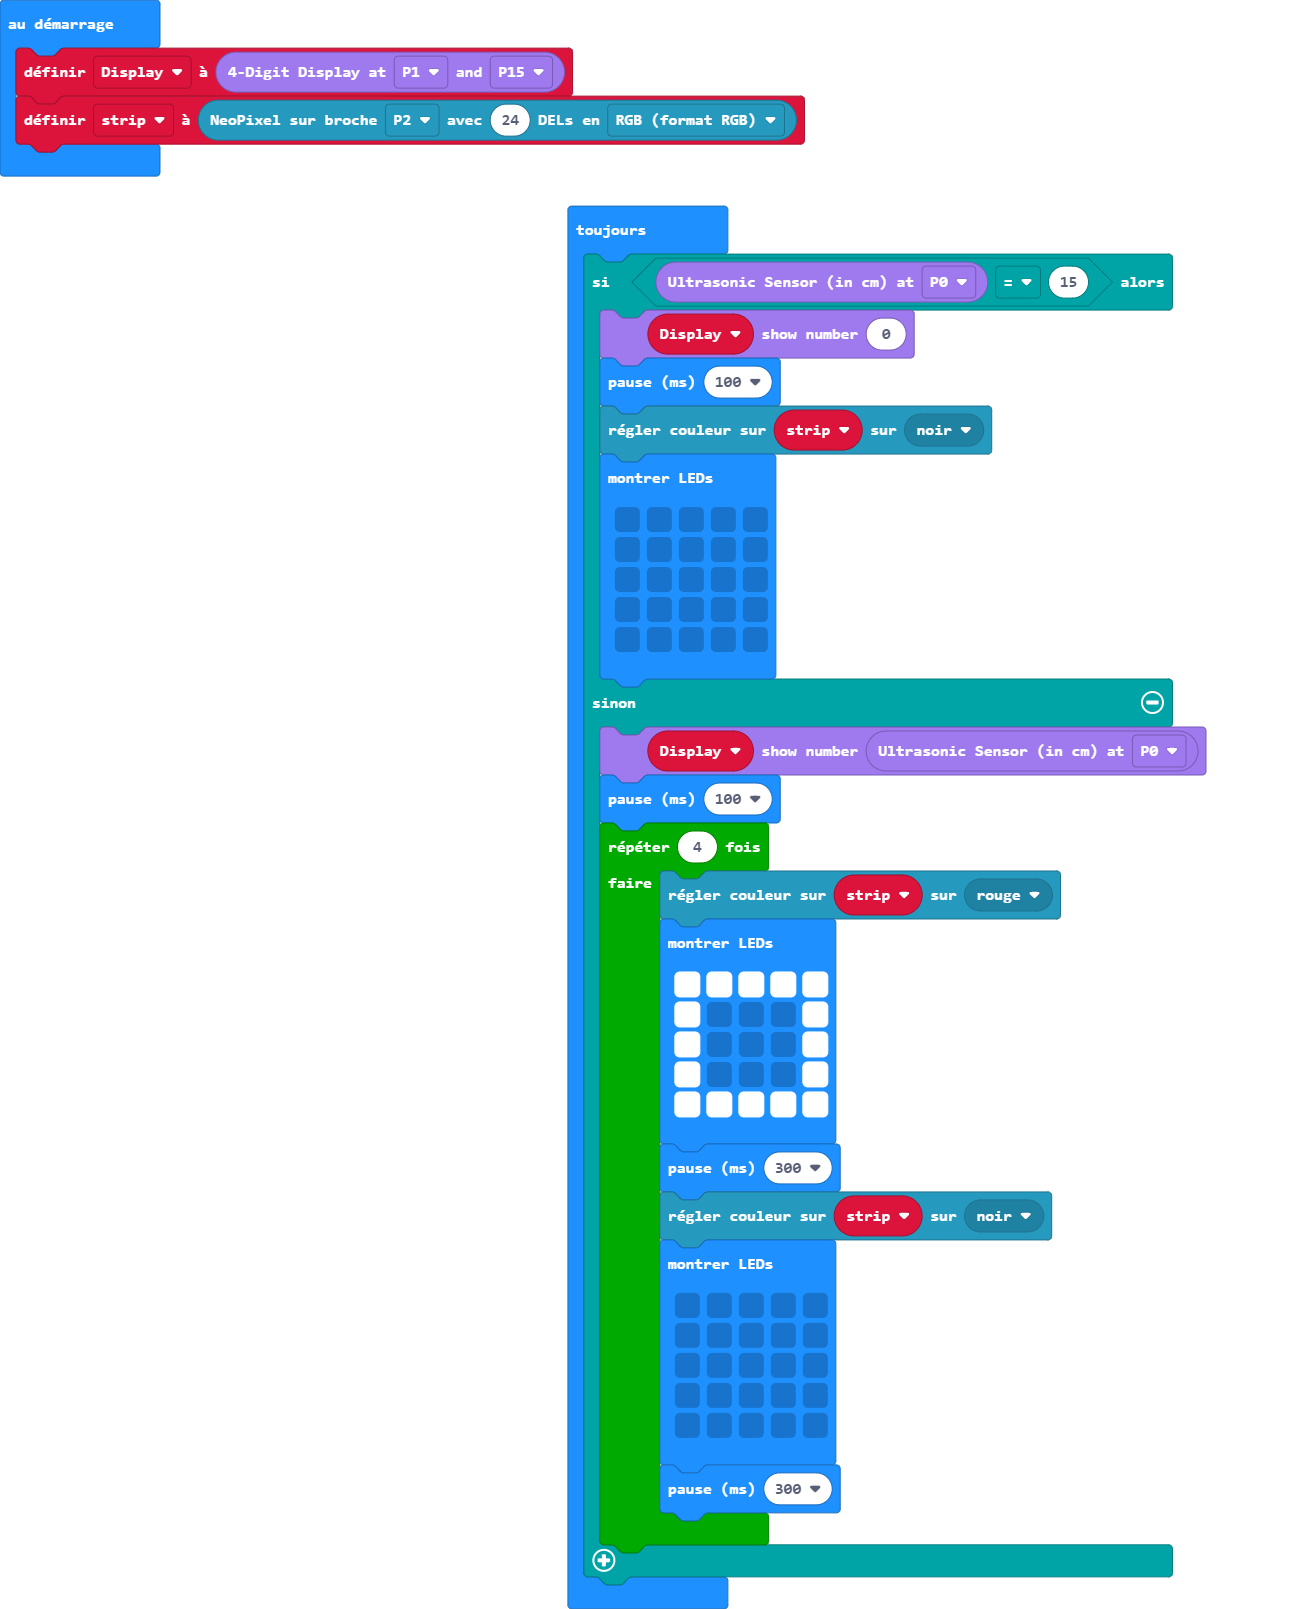
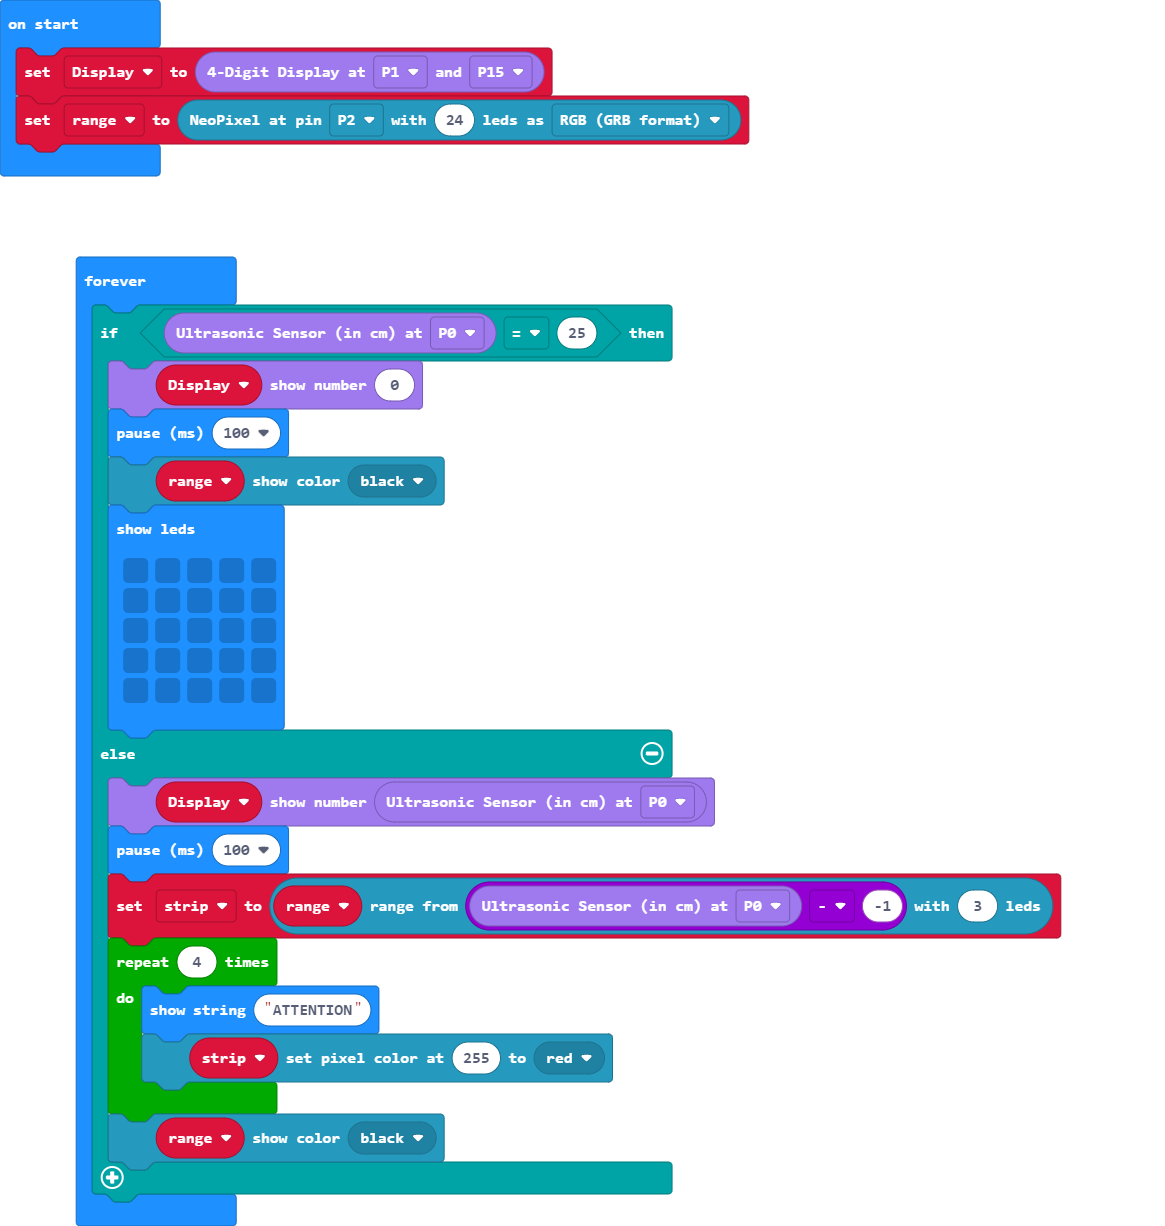
Update main.blocks, main.ts

diff --git a/main.ts b/main.ts
@@ -1,10 +1,11 @@
+let strip: neopixel.Strip = null
 let Display = grove.createDisplay(DigitalPin.P1, DigitalPin.P15)
-let strip = neopixel.create(DigitalPin.P2, 24, NeoPixelMode.RGB)
+let range = neopixel.create(DigitalPin.P2, 24, NeoPixelMode.RGB)
 basic.forever(function () {
-    if (grove.measureInCentimeters(DigitalPin.P0) == 15) {
+    if (grove.measureInCentimeters(DigitalPin.P0) == 25) {
         Display.show(0)
         basic.pause(100)
-        strip.showColor(neopixel.colors(NeoPixelColors.Black))
+        range.showColor(neopixel.colors(NeoPixelColors.Black))
         basic.showLeds(`
             . . . . .
             . . . . .
@@ -15,25 +16,11 @@ basic.forever(function () {
     } else {
         Display.show(grove.measureInCentimeters(DigitalPin.P0))
         basic.pause(100)
+        strip = range.range(grove.measureInCentimeters(DigitalPin.P0) - -1, 3)
         for (let index = 0; index < 4; index++) {
-            strip.showColor(neopixel.colors(NeoPixelColors.Red))
-            basic.showLeds(`
-                # # # # #
-                # . . . #
-                # . . . #
-                # . . . #
-                # # # # #
-                `)
-            basic.pause(300)
-            strip.showColor(neopixel.colors(NeoPixelColors.Black))
-            basic.showLeds(`
-                . . . . .
-                . . . . .
-                . . . . .
-                . . . . .
-                . . . . .
-                `)
-            basic.pause(300)
+            basic.showString("ATTENTION")
+            strip.setPixelColor(255, neopixel.colors(NeoPixelColors.Red))
         }
+        range.showColor(neopixel.colors(NeoPixelColors.Black))
     }
 })
